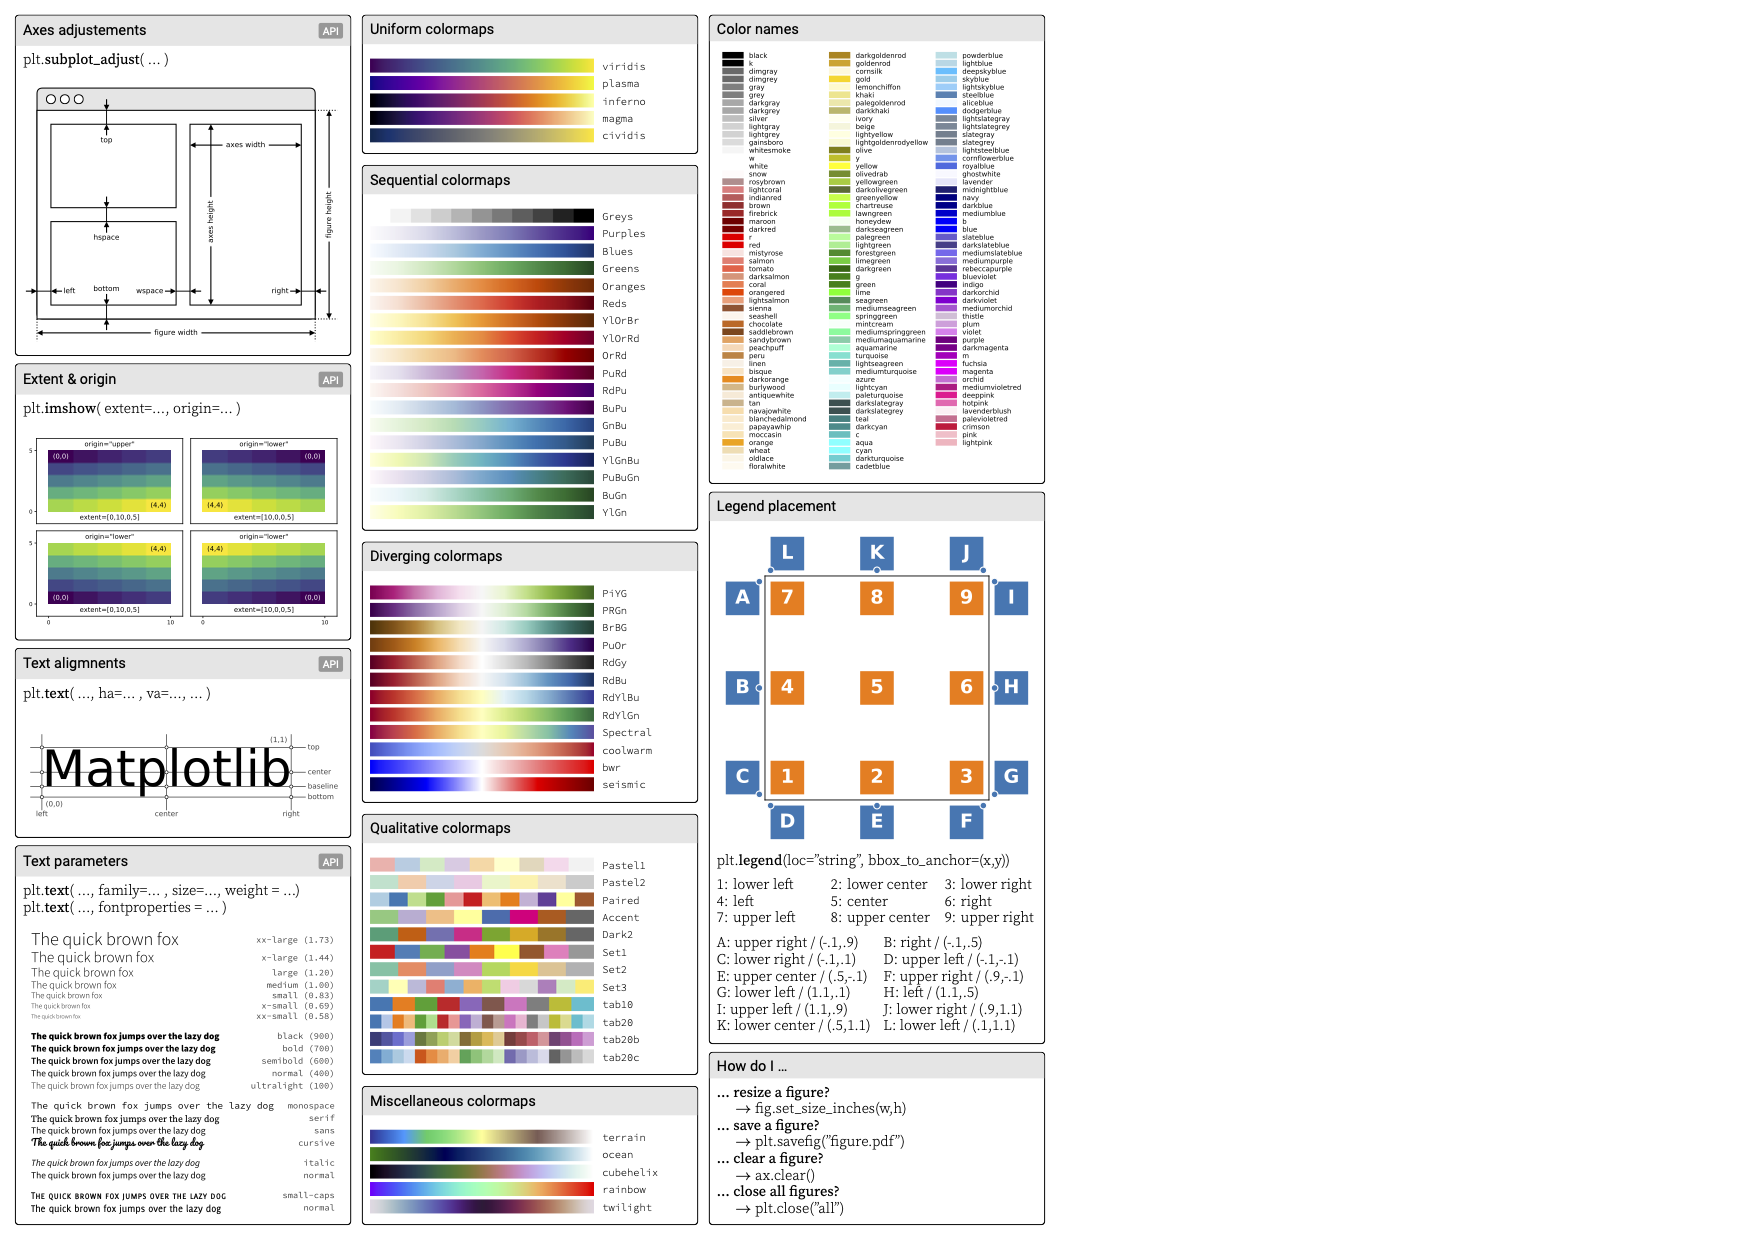
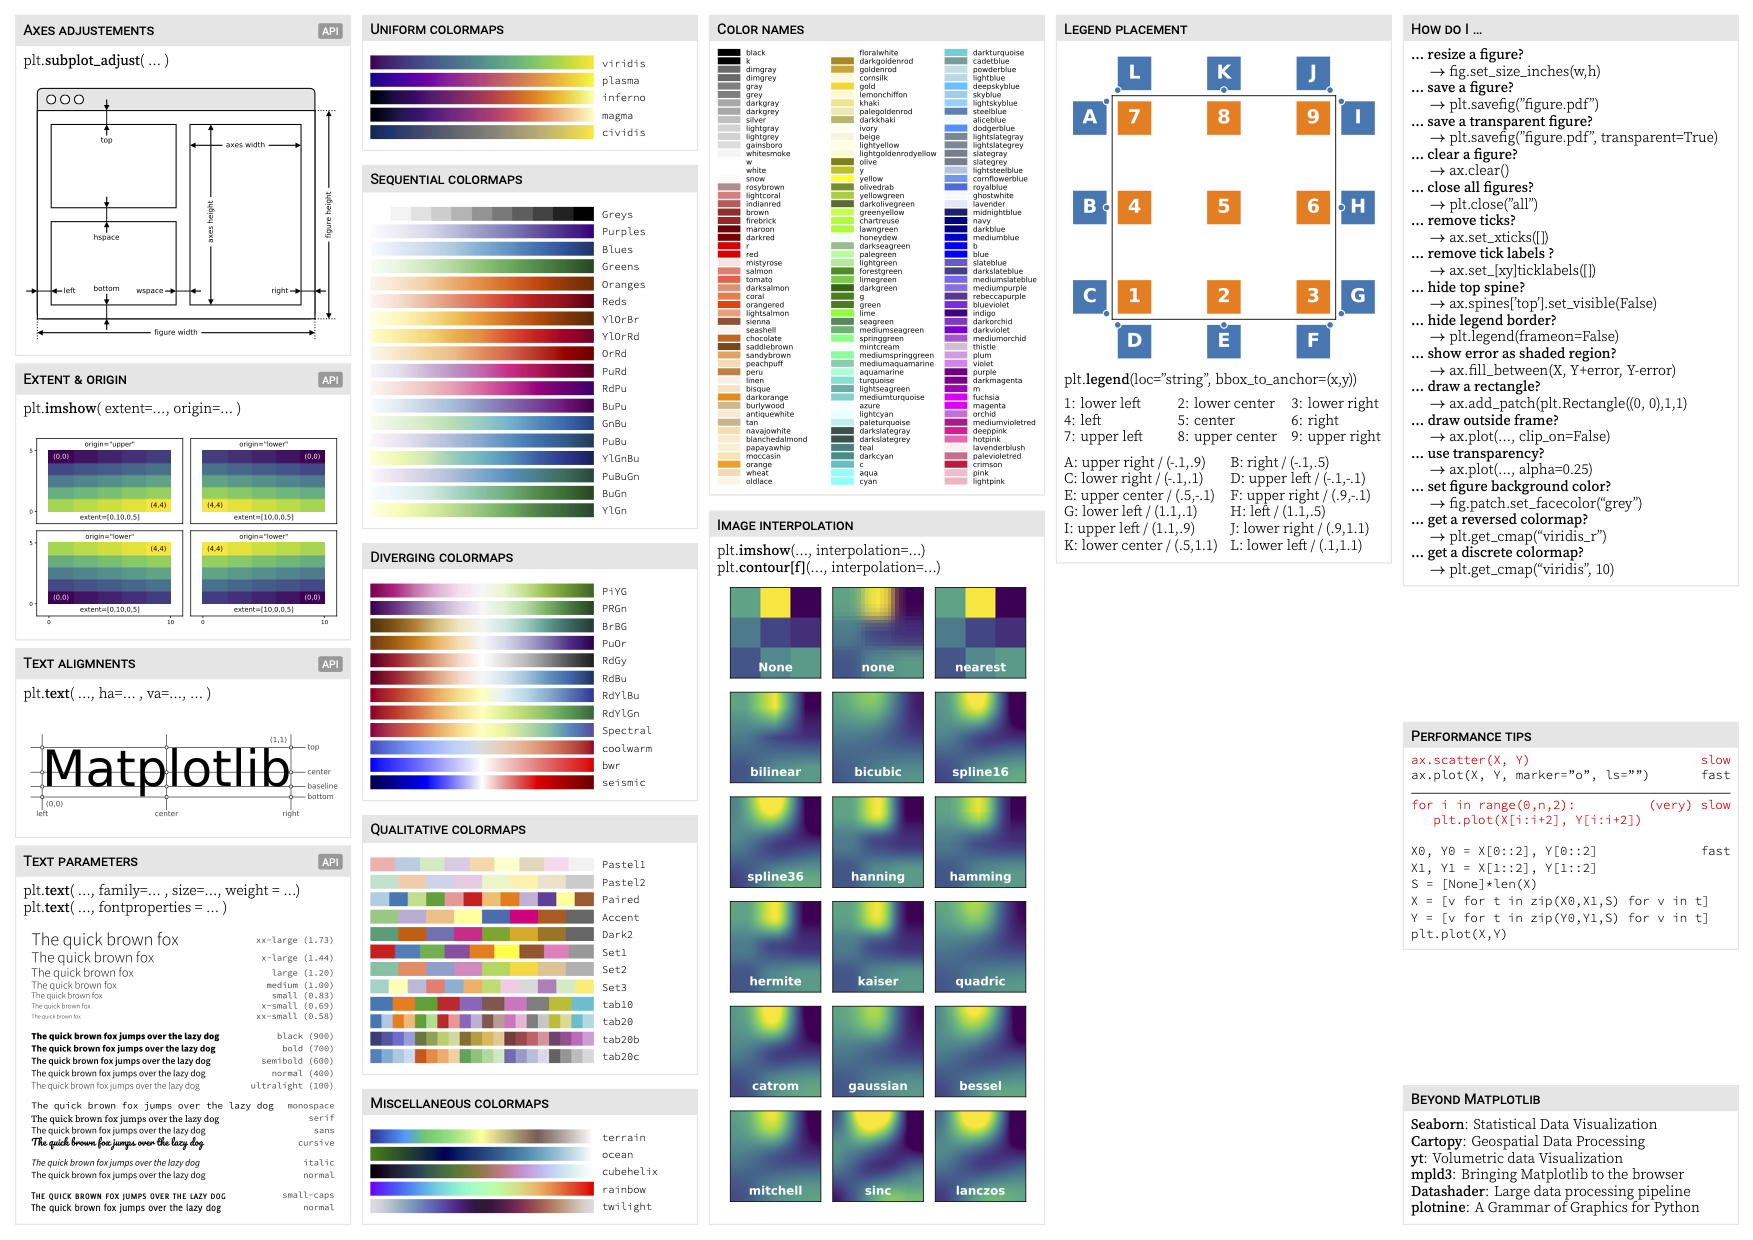
Added tips and interpolation

diff --git a/cheatsheets.tex b/cheatsheets.tex
@@ -217,15 +217,23 @@
 \newenvironment{myboxed}[1]
 {\begin{mdframed}[linecolor=black,
                   backgroundcolor=white,
-                  outerlinewidth=.1pt,
-                  roundcorner=0.25em,
+                  outerlinewidth=0.25pt,
+                  %roundcorner=0.25em,
                   innertopmargin=1ex,
+                  topline=true,
+                  rightline=true,
+                  leftline=true,
+                  bottomline=true,
+                  linecolor=black!10,
                   frametitleaboveskip=0.5em,
                   frametitlebelowskip=0.5em,
                   innerbottommargin=.5\baselineskip,
-                  innerrightmargin=.5em, innerleftmargin=.5em,
+                  innerrightmargin=.5em,
+                  innerleftmargin=.5em,
                   %userdefinedwidth=1\textwidth,
-                  frametitle={\sffamily \textbf{#1}},
+                  frametitle={\scshape \bfseries \sffamily #1},
+                  % frametitlerule=true,
+                  %frametitlerulecolor=red,
                   frametitlebackgroundcolor=black!10,
                   frametitlerulewidth=2pt]}
 {\end{mdframed}}
@@ -876,12 +884,21 @@
     \end{tabular}
   \end{myboxed}
 
+  
+  
   \begin{myboxed}{Color names}
     \includegraphics[width=\columnwidth]{colornames.pdf}
   \end{myboxed}
   %
   \vspace{\fill}
   %
+  \begin{myboxed}{Image interpolation}
+    plt.\textbf{imshow}(…, interpolation=…)\\
+    plt.\textbf{contour[f]}(…, interpolation=…)\\
+    \includegraphics[width=\columnwidth]{interpolations.pdf}
+  \end{myboxed}
+
+  
   \begin{myboxed}{Legend placement}
     \includegraphics[width=\columnwidth]{legend-placement.pdf}
     plt.\textbf{legend}(loc="string", bbox\_to\_anchor=(x,y))\\
@@ -903,23 +920,51 @@
       G: lower left / (1.1,.1) & H: left / (1.1,.5)\\
       I: upper left / (1.1,.9) & J: lower right / (.9,1.1)\\
       K: lower center / (.5,1.1) & L: lower left / (.1,1.1)
-    \end{tabular}
-    
+    \end{tabular}  
   \end{myboxed}
-  %
-  \vspace{\fill}
+
+  \vfill\null \columnbreak
+  
   %
   \begin{myboxed}{How do I …}
     \textbf{… resize a figure?}\\
     \hspace*{2.5mm}~$\rightarrow$ fig.set\_size\_inches(w,h)\\
     \textbf{… save a figure?}\\
     \hspace*{2.5mm}~$\rightarrow$ plt.savefig("figure.pdf")\\
+    \textbf{… save a transparent figure?}\\
+    \hspace*{2.5mm}~$\rightarrow$ plt.savefig("figure.pdf", transparent=True)\\
     \textbf{… clear a figure?}\\
     \hspace*{2.5mm}~$\rightarrow$ ax.clear()\\
     \textbf{… close all figures?}\\
-    \hspace*{2.5mm}~$\rightarrow$ plt.close("all")
+    \hspace*{2.5mm}~$\rightarrow$ plt.close("all")\\
+    \textbf{… remove ticks?}\\
+    \hspace*{2.5mm}~$\rightarrow$ ax.set\_xticks([])\\
+    \textbf{… remove tick labels ?}\\
+    \hspace*{2.5mm}~$\rightarrow$ ax.set\_[xy]ticklabels([])\\
+    \textbf{… hide top spine?}\\
+    \hspace*{2.5mm}~$\rightarrow$ ax.spines['top'].set\_visible(False)\\
+    \textbf{… hide legend border?}\\
+    \hspace*{2.5mm}~$\rightarrow$  plt.legend(frameon=False)\\
+    \textbf{… show error as shaded region?}\\
+    \hspace*{2.5mm}~$\rightarrow$ ax.fill\_between(X, Y+error, Y-error)\\
+    \textbf{… draw a rectangle?}\\
+    \hspace*{2.5mm}~$\rightarrow$  ax.add\_patch(plt.Rectangle((0, 0),1,1)\\
+    \textbf{… draw outside frame?}\\
+    \hspace*{2.5mm}~$\rightarrow$  ax.plot(…, clip\_on=False)\\
+    \textbf{… use transparency?}\\
+    \hspace*{2.5mm}~$\rightarrow$  ax.plot(…, alpha=0.25)\\
+    \textbf{… set figure background color?}\\
+    \hspace*{2.5mm}~$\rightarrow$ fig.patch.set\_facecolor(``grey'')\\
+    \textbf{… get a reversed colormap?}\\
+    \hspace*{2.5mm}~$\rightarrow$ plt.get\_cmap(``viridis\_r'')\\
+    \textbf{… get a discrete colormap?}\\
+    \hspace*{2.5mm}~$\rightarrow$ plt.get\_cmap(``viridis'', 10)
+%%    \textbf{… show a figure for one second?}\\
+%%    \hspace*{2.5mm}~$\rightarrow$ plt.show(block=False), time.sleep(1)
   \end{myboxed}
- 
+  %
+  \vspace{\fill}
+  %
   \begin{myboxed}{Performance tips}
     {\ttfamily \fontsize{6pt}{7pt}\selectfont
     \textcolor{red}{ax.scatter(X, Y)  \hfill slow}\\
@@ -933,8 +978,18 @@
     S = [None]*len(X)\\
     X = [v for t in zip(X0,X1,S) for v in t]\\
     Y = [v for t in zip(Y0,Y1,S) for v in t]\\
-    plt.plot(X,Y)
-}
+    plt.plot(X,Y)}
+  \end{myboxed}
+  %
+  \vspace{\fill}
+  %
+  \begin{myboxed}{Beyond Matplotlib}
+    \href{https://seaborn.pydata.org/}{\textbf{Seaborn}}: Statistical Data Visualization\\
+    \href{https://scitools.org.uk/cartopy/docs/latest/}{\textbf{Cartopy}}: Geospatial Data Processing\\
+    \href{https://yt-project.org/doc/index.html}{\textbf{yt}}: Volumetric data Visualization\\
+    \href{https://mpld3.github.io}{\textbf{mpld3}}: Bringing Matplotlib to the browser\\
+    \href{https://datashader.org/}{\textbf{Datashader}}: Large data processing pipeline\\
+    \href{https://plotnine.readthedocs.io/en/latest/}{\textbf{plotnine}}: A Grammar of Graphics for Python
   \end{myboxed}
 
 \end{multicols*}

diff --git a/scripts/interpolations.py b/scripts/interpolations.py
@@ -1,0 +1,22 @@
+import matplotlib.pyplot as plt
+import numpy as np
+
+methods = [None, 'none', 'nearest', 'bilinear', 'bicubic', 'spline16',
+           'spline36', 'hanning', 'hamming', 'hermite', 'kaiser', 'quadric',
+           'catrom', 'gaussian', 'bessel', 'mitchell', 'sinc', 'lanczos']
+
+np.random.seed(1)
+Z = np.random.uniform(0,1,(3,3))
+
+
+fig, axs = plt.subplots(nrows=6, ncols=3, figsize=(4.5,9),
+                        subplot_kw={'xticks': [], 'yticks': []})
+for ax, interp_method in zip(axs.flat, methods):
+    ax.imshow(Z, interpolation=interp_method, cmap='viridis',
+              extent=[0,9,0,9])
+    ax.text(4.5, 1, str(interp_method), weight="bold", color="white", size=12,
+            transform=ax.transData, ha="center", va="center")
+
+plt.tight_layout()
+plt.savefig("../figures/interpolations.pdf", dpi=600)
+plt.show()

diff --git a/scripts/colornames.py b/scripts/colornames.py
@@ -20,7 +20,7 @@ sorted_names = [name for hsv, name in by_hsv]
 
 n = len(sorted_names)
 ncols = 3
-nrows = n // ncols + 1
+nrows = n // ncols +1
 
 fig, ax = plt.subplots(figsize=(4.5, 6))
 
@@ -30,8 +30,8 @@ h = Y / (nrows + 1)
 w = X / ncols
 
 for i, name in enumerate(sorted_names):
-    col = i // nrows
-    row = i % nrows
+    col = i // (nrows-1)
+    row = i % (nrows-1)
     y = Y - (row * h) - h
 
     xi_line = w * (col + 0.05)
